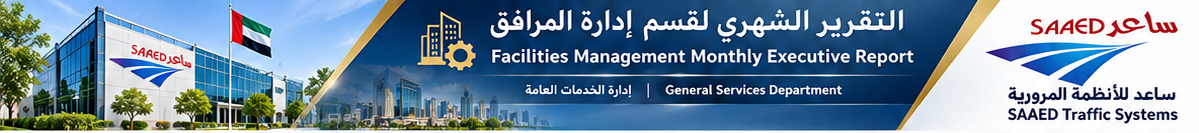
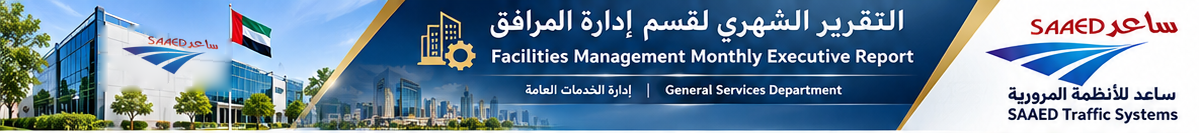
refactor: update header reference architecture and assets
- Renamed `.header-right-wing-svg` to `.header-ribbons-svg`
- Standardized header text color to pure white
- Updated header background and logo assets for higher fidelity
- Improved accessibility descriptions in the header component

Changed region(s): [[0.0617, 0.1805, 0.216, 0.6917]]

diff --git a/src/components/SaaedExecutiveHeader.tsx b/src/components/SaaedExecutiveHeader.tsx
@@ -12,12 +12,12 @@ export const SaaedExecutiveHeader: React.FC<SaaedExecutiveHeaderProps> = ({ clas
 
   return (
     <header className={`saaed-executive-header ${className}`.trim()} dir="ltr">
-      {/* Layer 1: Clean Text-Free Visual Backdrop, Skyline, Navy Gradient, Gold Diagonal & White Wing */}
+      {/* Layer 1: High-Resolution Text-Free Visual Backdrop (Building, UAE Flag, Skyline & Navy Gradient) */}
       <div className="header-visual" aria-hidden="true">
         {!backdropFailed ? (
           <img
             src={headerBackdrop}
-            alt=""
+            alt="المقر الرئيسي لشركة ساعد للأنظمة المرورية — إدارة المرافق"
             className="header-backdrop-img"
             width={2398}
             height={266}
@@ -29,33 +29,36 @@ export const SaaedExecutiveHeader: React.FC<SaaedExecutiveHeaderProps> = ({ clas
           <div className="header-backdrop-fallback" />
         )}
 
-        {/* Right Gold Diagonal Ribbon + White Slanted Wing (Desktop & Print exact geometry) */}
+        {/* Vector Metallic Gold Diagonal Ribbons & Pure White Right Wing (Desktop & Print geometry) */}
         <svg
-          className="header-right-wing-svg"
+          className="header-ribbons-svg"
           viewBox="0 0 1199 133"
           preserveAspectRatio="none"
           focusable="false"
+          aria-hidden="true"
         >
           <defs>
             <linearGradient id="saaedHeaderGoldRibbon" x1="0%" y1="0%" x2="100%" y2="100%">
-              <stop offset="0%" stopColor="#EAD084" />
-              <stop offset="45%" stopColor="#D4A64E" />
+              <stop offset="0%" stopColor="#F5D98A" />
+              <stop offset="45%" stopColor="#DFB357" />
               <stop offset="100%" stopColor="#A97B27" />
             </linearGradient>
           </defs>
-          {/* Metallic Gold Diagonal Accent */}
+          {/* Left Metallic Gold Diagonal Accent */}
+          <polygon points="405,0 422,0 302,133 285,133" fill="url(#saaedHeaderGoldRibbon)" />
+          {/* Right Metallic Gold Diagonal Accent */}
           <polygon points="984,0 1001,0 897,133 880,133" fill="url(#saaedHeaderGoldRibbon)" />
           {/* Pure White Right Brand Wing */}
           <polygon points="1001,0 1199,0 1199,133 897,133" fill="#FFFFFF" />
         </svg>
 
-        {/* Subtle Bottom Edge Highlight Matching Reference */}
+        {/* Subtle Bottom Edge Highlight Accent */}
         <div className="header-bottom-edge" />
       </div>
 
-      {/* Layer 2 & 3: Real Selectable HTML Typography + Vector Emblem + Official SAAED Logo */}
+      {/* Layer 2: Real Selectable HTML Typography + Vector Emblem + Official SAAED Logo */}
       <div className="header-foreground">
-        {/* Center Title Zone (Left-aligned after building/skyline, matching reference geometry) */}
+        {/* Center Zone: Vector Gold Architectural Emblem + Official Report Titles */}
         <div className="header-content">
           {/* Vector Gold Building & Gear Architectural Emblem */}
           <div className="header-emblem" aria-hidden="true">
@@ -143,7 +146,7 @@ export const SaaedExecutiveHeader: React.FC<SaaedExecutiveHeaderProps> = ({ clas
           </div>
         </div>
 
-        {/* Layer 3: Official SAAED Brand Wing on the Visual Right */}
+        {/* Right Zone: Official SAAED Brand Wing on the Visual Right */}
         <div className="header-brand">
           {!logoFailed ? (
             <img

diff --git a/src/index.css b/src/index.css
@@ -74,7 +74,7 @@
   background: #1769AA;
 }
 
-/* Layered Corporate Executive Header (Real HTML Text + High-Res Visual Assets) */
+/* Layered Corporate Executive Header (Exact 1199:133 Reference Architecture) */
 .saaed-executive-header {
   position: relative;
   width: 100%;
@@ -112,7 +112,7 @@
   background: linear-gradient(135deg, #01244c 0%, #073c70 60%, #022e5a 100%);
 }
 
-.saaed-executive-header .header-right-wing-svg {
+.saaed-executive-header .header-ribbons-svg {
   position: absolute;
   inset: 0;
   width: 100%;
@@ -150,7 +150,7 @@
 .saaed-executive-header .header-title-group p {
   font-family: 'IBM Plex Sans Arabic', 'Cairo', Arial, sans-serif;
   font-weight: 700;
-  color: #f8fafc;
+  color: #ffffff;
   direction: ltr;
   unicode-bidi: isolate;
   line-height: 1.28;
@@ -312,7 +312,7 @@
 
 /* Mobile Responsive Layout (< 768px non-print) */
 @media screen and (max-width: 767px) {
-  .saaed-executive-header .header-right-wing-svg,
+  .saaed-executive-header .header-ribbons-svg,
   .saaed-executive-header .header-bottom-edge {
     display: none;
   }
